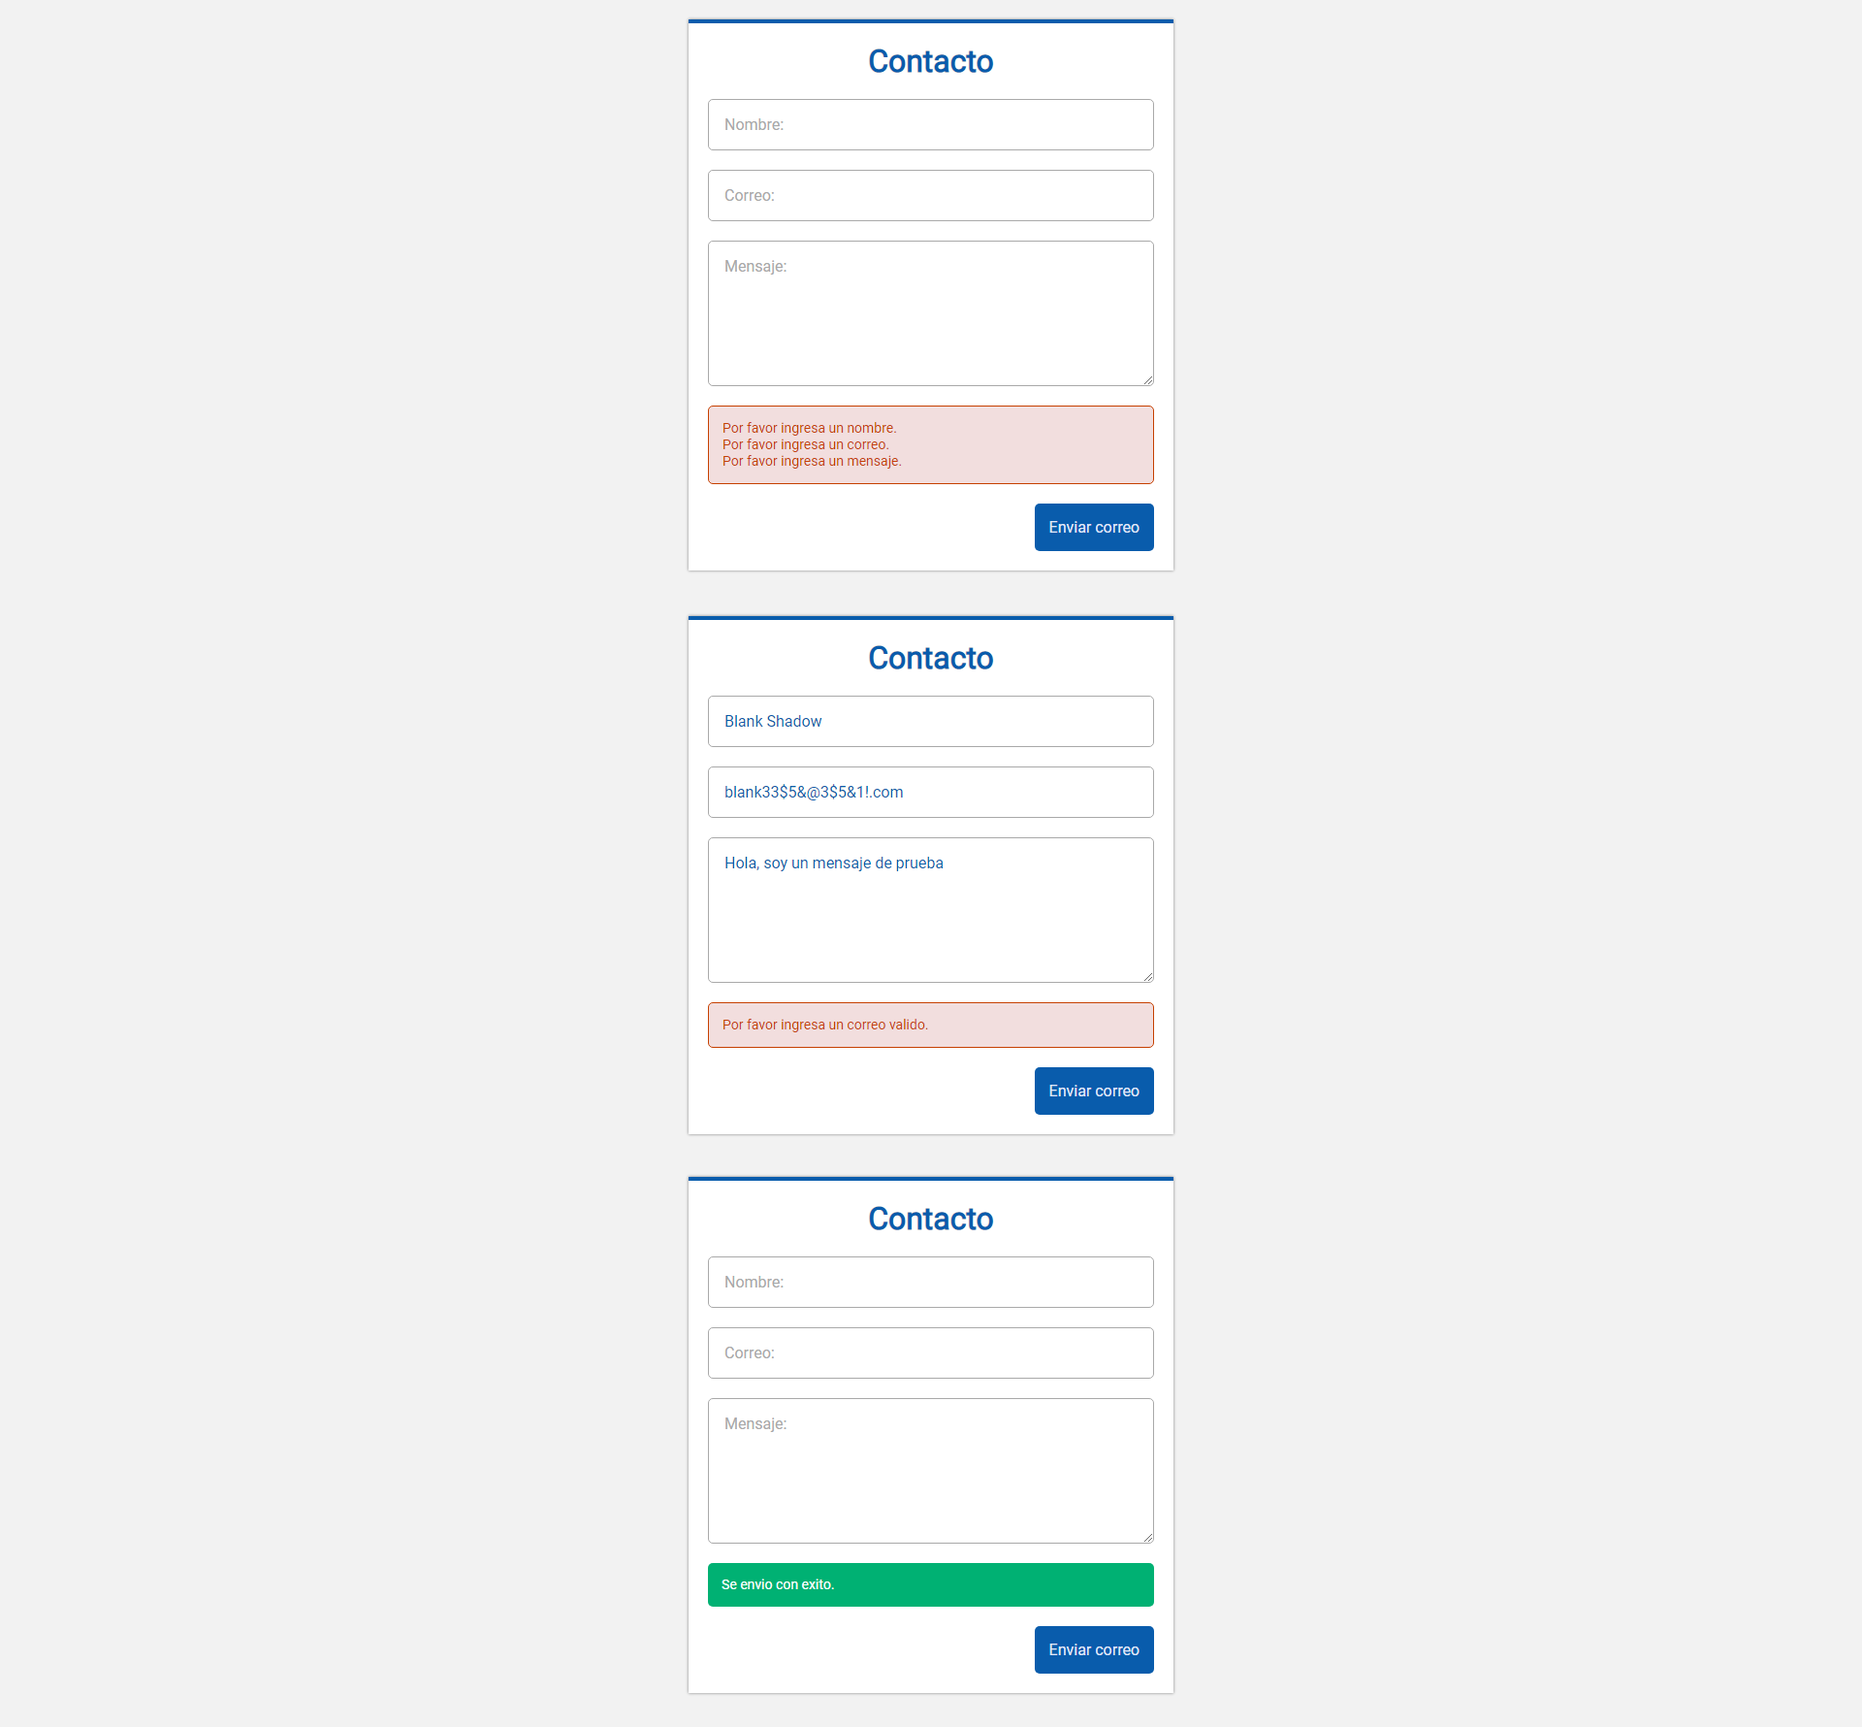
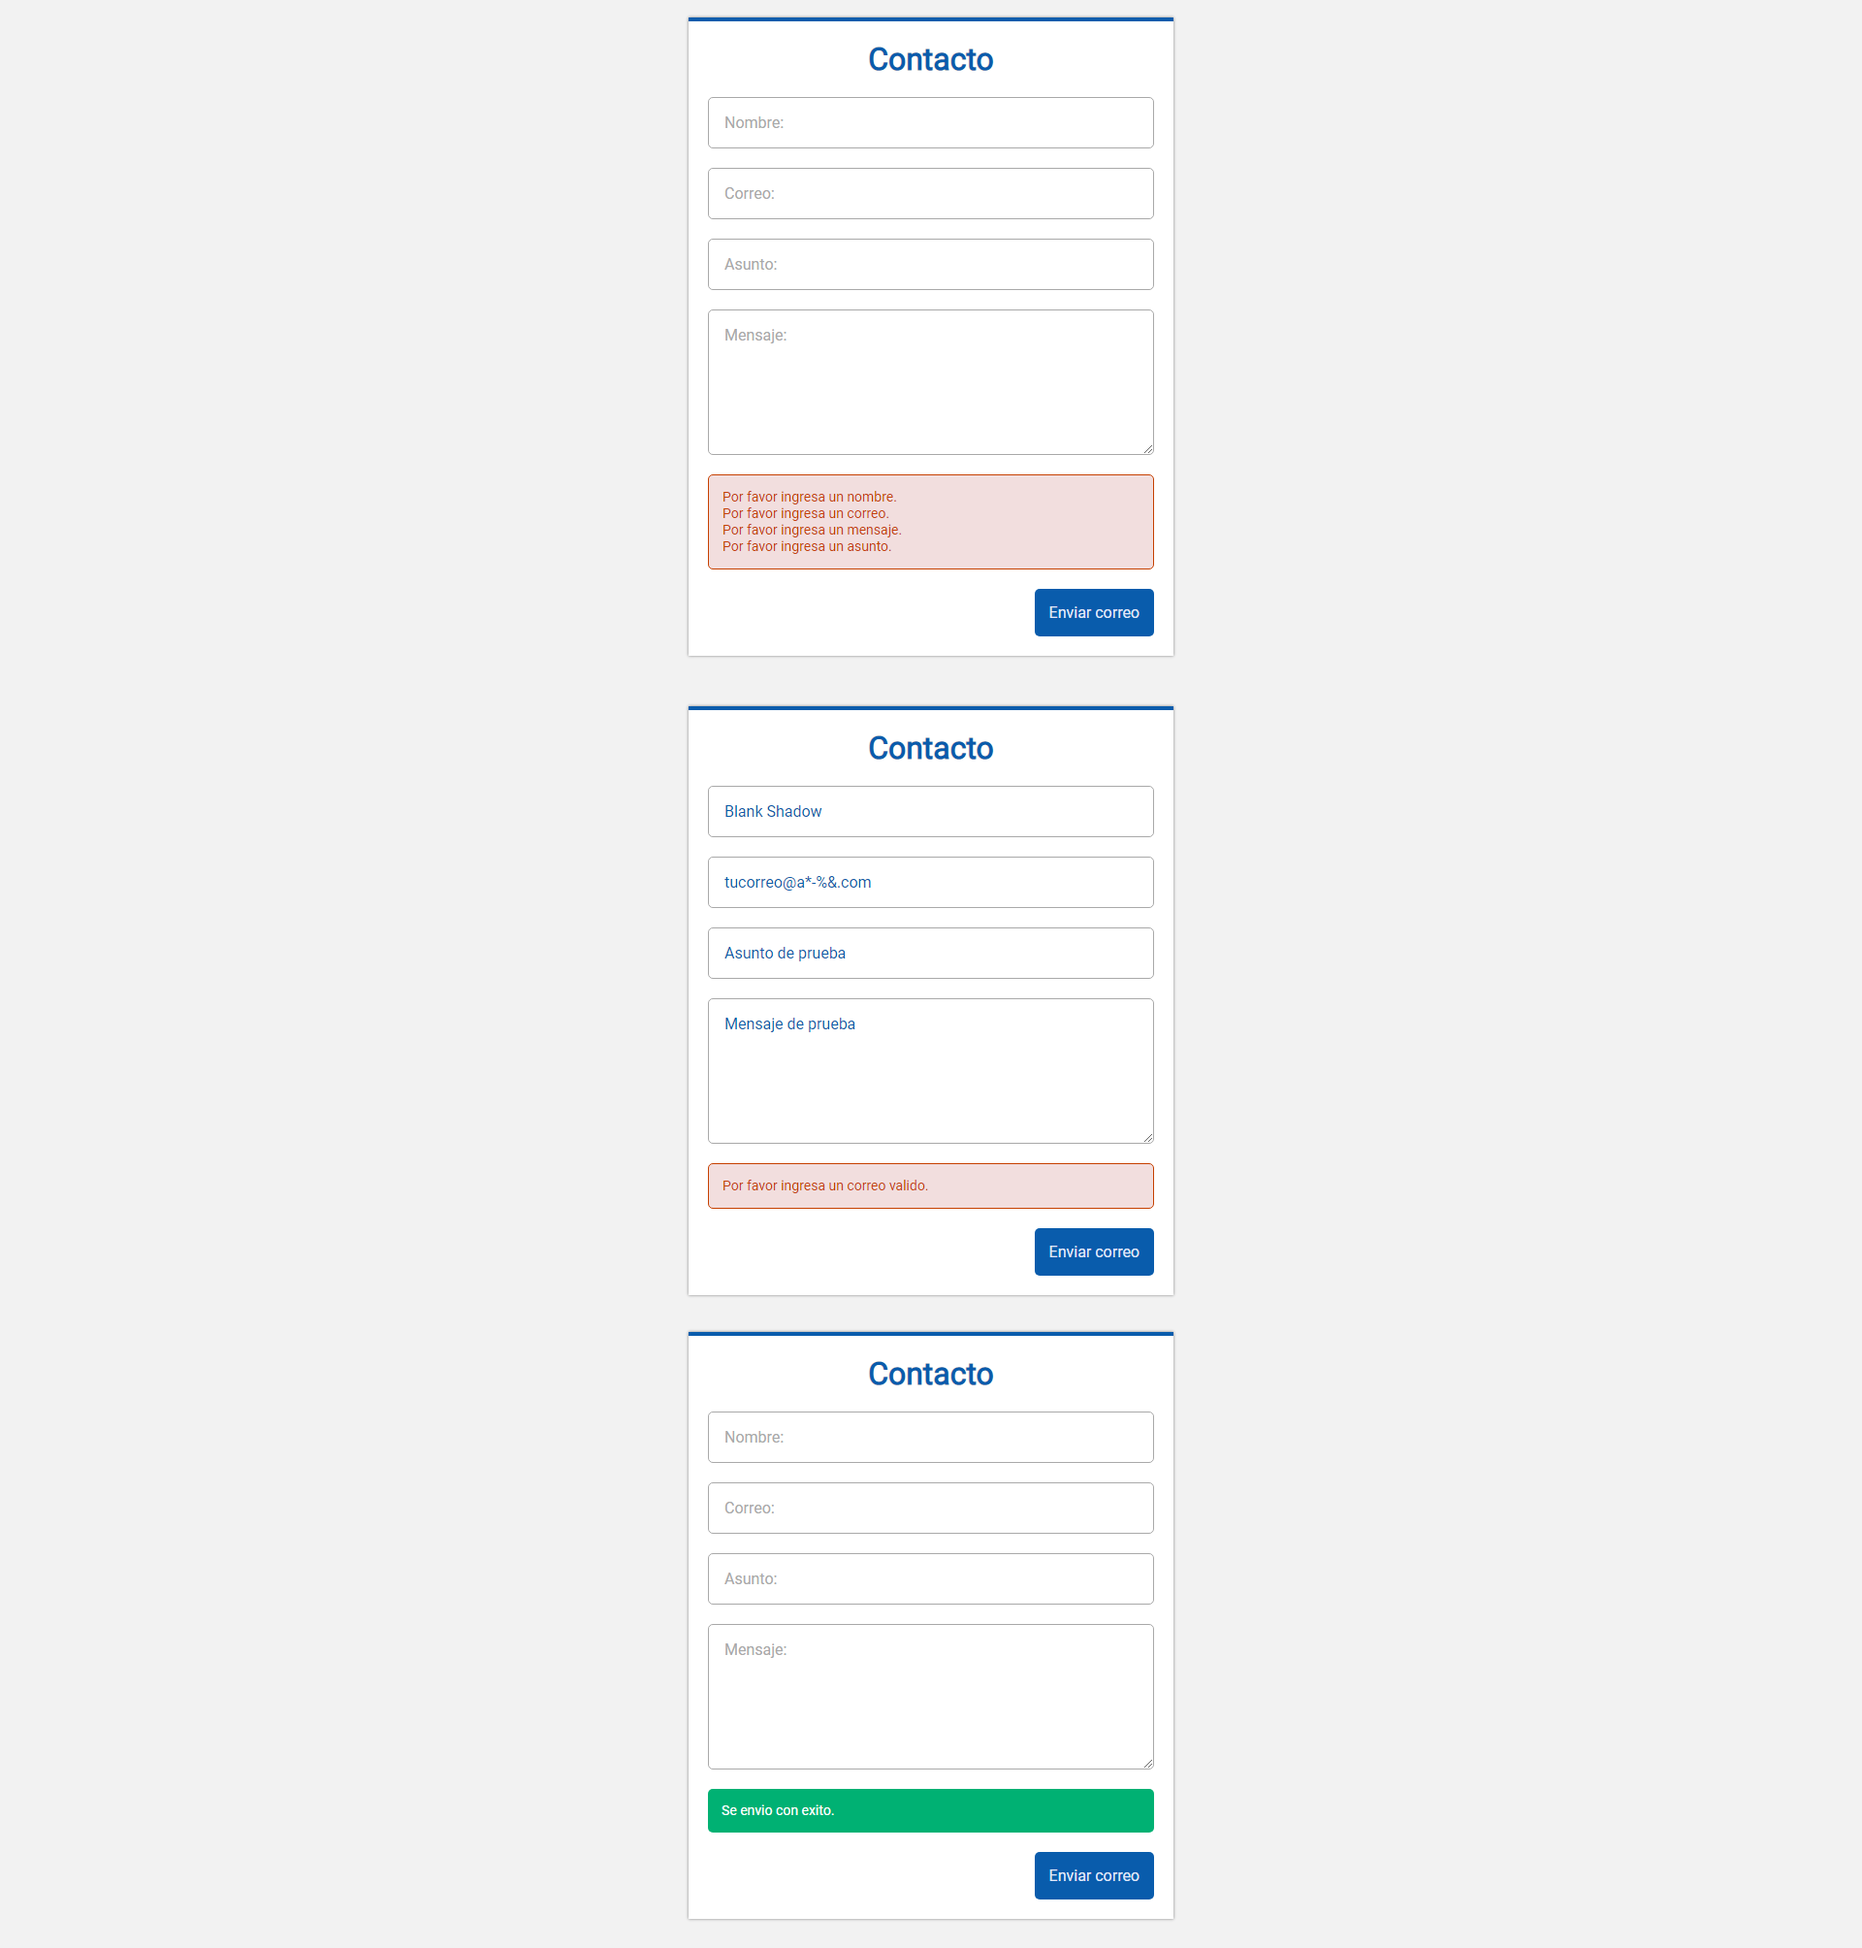
Formulario de contacto v1.1
Se agrego el campo Asunto

diff --git a/index.php b/index.php
@@ -7,6 +7,7 @@ if (isset($_POST['submit'])) {
 	$nombre = $_POST['nombre'];
 	$correo = $_POST['correo'];
 	$mensaje = $_POST['mensaje'];
+	$asunto = $_POST['asunto'];
 
 	if (!empty($nombre)) {
 		$nombre = trim($nombre);
@@ -32,14 +33,22 @@ if (isset($_POST['submit'])) {
 		$errores .= 'Por favor ingresa un mensaje.<br>';
 	}
 
+	if (!empty($asunto)) {
+		$asunto = htmlspecialchars($asunto);
+		$asunto = trim($asunto);
+		$asunto = stripslashes($asunto);
+	} else {
+		$errores .= 'Por favor ingresa un asunto.<br>';
+	}
+
 	if (!$errores) {
 		$enviar_a = 'tucorreo@tuempresa.com';
-		$asunto = 'Correo enviado desde MiPagina.com';
+		$asunto_preparado = $asunto;
 		$mensaje_preparado = 'De: ' . $nombre . '\n';
 		$mensaje_preparado .= 'Correo: ' . $correo . '\n';
 		$mensaje_preparado .= 'Mensaje: ' . $mensaje;
 
-		mail($enviar_a,$asunto,$mensaje_preparado);
+		mail($enviar_a,$asunto_preparado,$mensaje_preparado);
 		$enviado = 'true';
 	}
 }

diff --git a/views/index.view.php b/views/index.view.php
@@ -13,6 +13,7 @@
 			<h1>Contacto</h1>
 			<input type="text" class="form-control" name="nombre" placeholder="Nombre:" value="<?php if(!$enviado && isset($nombre)) echo $nombre; ?>" id="nombre">
 			<input type="text" class="form-control" name="correo" placeholder="Correo:" value="<?php if(!$enviado && isset($correo)) echo $correo; ?>" id="correo">
+			<input type="text" class="form-control" name="asunto" placeholder="Asunto:" value="<?php if(!$enviado && isset($asunto)) echo $asunto; ?>" id="asunto">
 			<textarea name="mensaje" class="form-control" id="mensaje" placeholder="Mensaje:"><?php if(!$enviado && isset($mensaje)) echo $mensaje; ?></textarea>
 
 			<?php if (!empty($errores)): ?>
